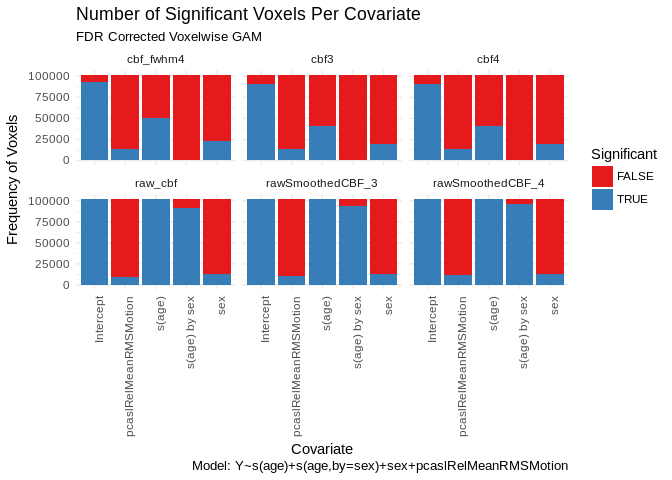
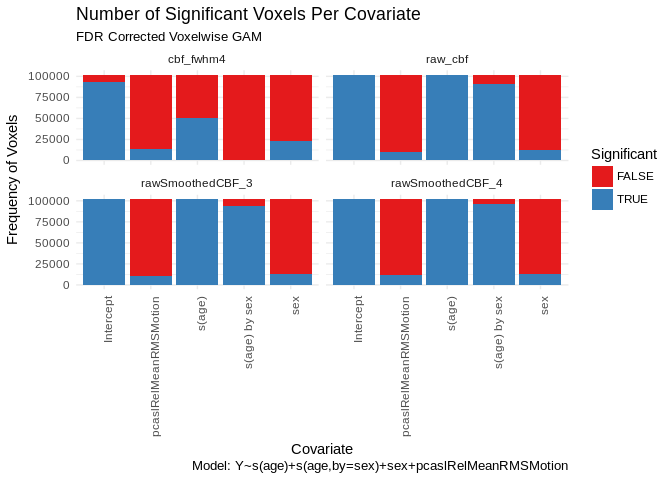
render

diff --git a/code/VoxelWrapperModels/ResultNotebooks/CBF_Results_imco1_6.md b/code/VoxelWrapperModels/ResultNotebooks/CBF_Results_imco1_6.md
@@ -25,7 +25,7 @@ suppressPackageStartupMessages({
 print(paste("Last Run:", format(Sys.time(), '%Y-%m-%d')))
 ```
 
-    ## [1] "Last Run: 2019-02-20"
+    ## [1] "Last Run: 2019-02-21"
 
 Summarising Results of the ISLA Voxelwise Models
 ================================================
@@ -45,8 +45,6 @@ results_dir <- "/data/jux/BBL/projects/isla/results/VoxelWrapperModels/imco1"
 rawcbf_dir <- file.path(results_dir, "raw_cbf")
 smoothed3_dir <- file.path(results_dir, "rawSmoothedCBF_3")
 smoothed4_dir <- file.path(results_dir, "rawSmoothedCBF_4")
-isla3_dir <- file.path(results_dir, "cbf3")
-isla4_dir <- file.path(results_dir, "cbf4")
 
 results_dir <- "/data/jux/BBL/projects/isla/results/VoxelWrapperModels/imco1_6"
 isla_cbf_dir <- file.path(results_dir, "cbf_fwhm4")
@@ -55,8 +53,6 @@ images_df <- c(
   rawcbf_dir,
   smoothed3_dir,
   smoothed4_dir,
-  isla3_dir,
-  isla4_dir,
   isla_cbf_dir) %>%
   tibble(path = .) %>%
   group_by(path) %>%

diff --git a/code/VoxelWrapperModels/CBF/ISLA_3.md b/code/VoxelWrapperModels/CBF/ISLA_3.md
@@ -1,7 +1,7 @@
 Multivariate Voxelwise `gam()`: ISLA CBF Size 3
 ================
 Tinashe M. Tapera
-2018-02-8
+2019-02-08
 
 NB: This is the script used to run the ISLA models. Please see [this notebook](/data/jux/BBL/projects/isla/code/VoxelWrapperModels/MassUnivariate_Voxelwise.md) for a walk through on how this is constructed.
 
@@ -19,7 +19,7 @@ set.seed(1000)
 print(paste("Updated:", format(Sys.time(), '%Y-%m-%d ')))
 ```
 
-    ## [1] "Updated: 2019-02-13 "
+    ## [1] "Updated: 2019-02-20 "
 
 `covariates`
 
@@ -49,7 +49,7 @@ all_scans <-
   list.files(cbf_path,  pattern = ".nii.gz", recursive = TRUE, full.names = TRUE) %>%
   tibble(path = .) %>%
   mutate(scanid = str_extract(path, "(?<=_)[:digit:]{4,}(?=_)")) %>%
-  filter(str_detect(path, "isla_diff_vox3")) %>%
+  filter(str_detect(path, "predictedGMD1")) %>%
   select(scanid, everything())
 
 covariates_df <-

diff --git a/code/VoxelWrapperModels/CBF/ISLA_4.md b/code/VoxelWrapperModels/CBF/ISLA_4.md
@@ -1,7 +1,7 @@
 Multivariate Voxelwise `gam()`: ISLA CBF Size 4
 ================
 Tinashe M. Tapera
-2018-02-8
+2019-02-08
 
 NB: This is the script used to run the ISLA models. Please see [this notebook](/data/jux/BBL/projects/isla/code/VoxelWrapperModels/MassUnivariate_Voxelwise.md) for a walk through on how this is constructed.
 
@@ -19,7 +19,7 @@ set.seed(1000)
 print(paste("Updated:", format(Sys.time(), '%Y-%m-%d ')))
 ```
 
-    ## [1] "Updated: 2019-02-13 "
+    ## [1] "Updated: 2019-02-20 "
 
 `covariates`
 
@@ -49,7 +49,7 @@ all_scans <-
   list.files(cbf_path,  pattern = ".nii.gz", recursive = TRUE, full.names = TRUE) %>%
   tibble(path = .) %>%
   mutate(scanid = str_extract(path, "(?<=_)[:digit:]{4,}(?=_)")) %>%
-  filter(str_detect(path, "isla_diff_vox4")) %>%
+  filter(str_detect(path, "predictedGMD1")) %>%
   select(scanid, everything())
 
 covariates_df <-

diff --git a/code/VoxelWrapperModels/CBF/ISLA_CBF_fwhm4.md b/code/VoxelWrapperModels/CBF/ISLA_CBF_fwhm4.md
@@ -49,7 +49,7 @@ all_scans <-
   list.files(cbf_path,  pattern = ".nii.gz", recursive = TRUE, full.names = TRUE) %>%
   tibble(path = .) %>%
   mutate(scanid = str_extract(path, "(?<=_)[:digit:]{4,}(?=_)")) %>%
-  filter(str_detect(path, "isla_diff_fwhm4")) %>%
+  filter(str_detect(path, "predictedGMD1")) %>%
   select(scanid, everything())
 
 covariates_df <-
